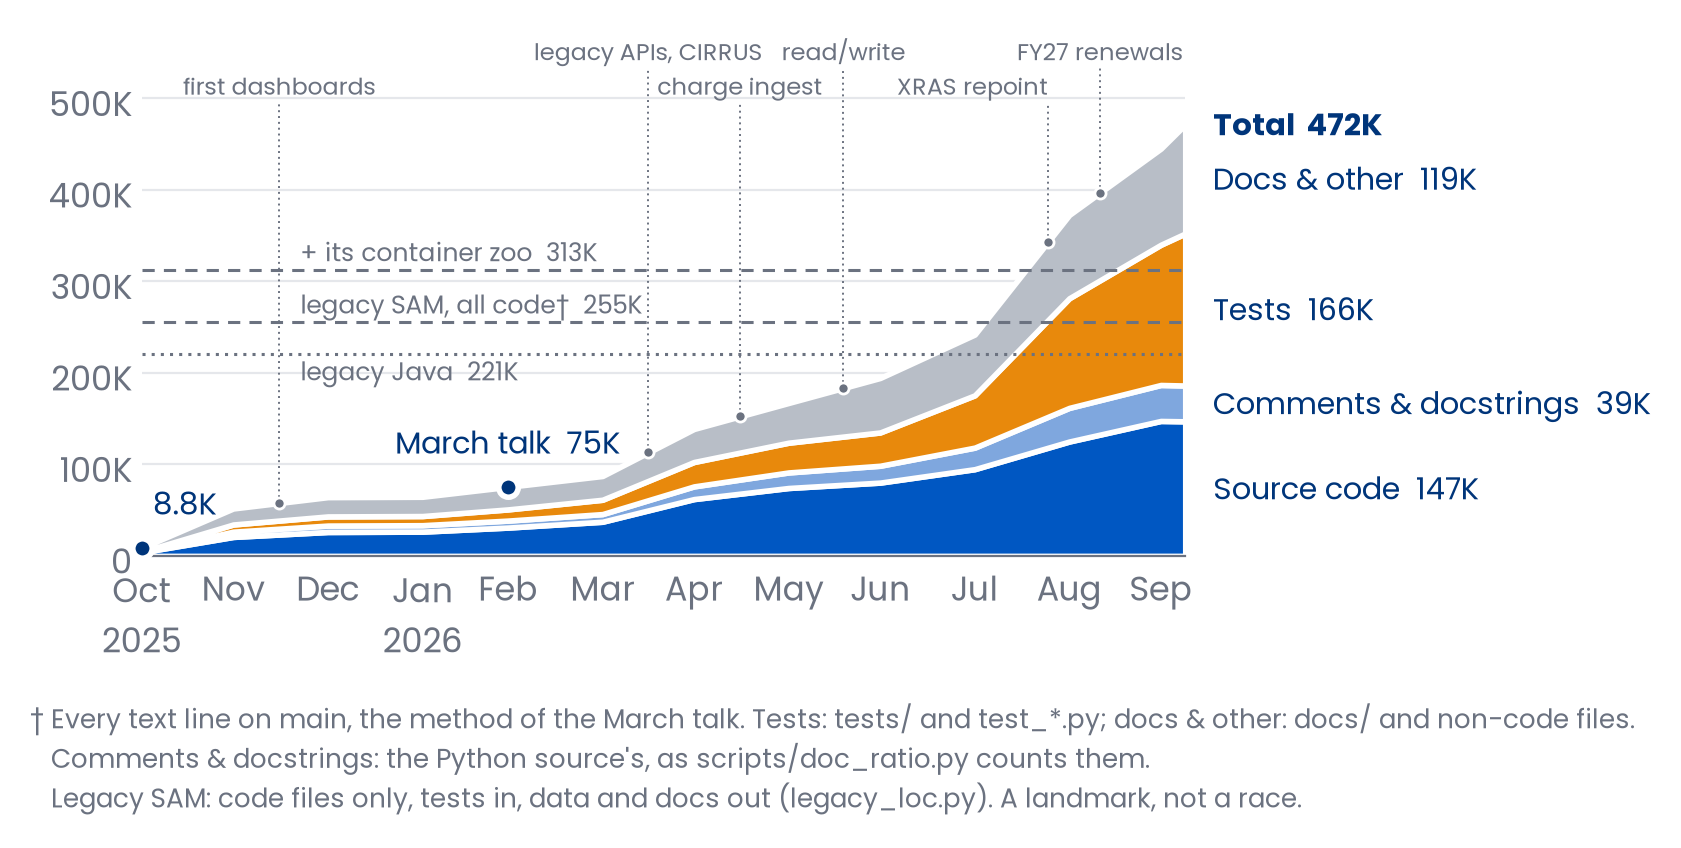
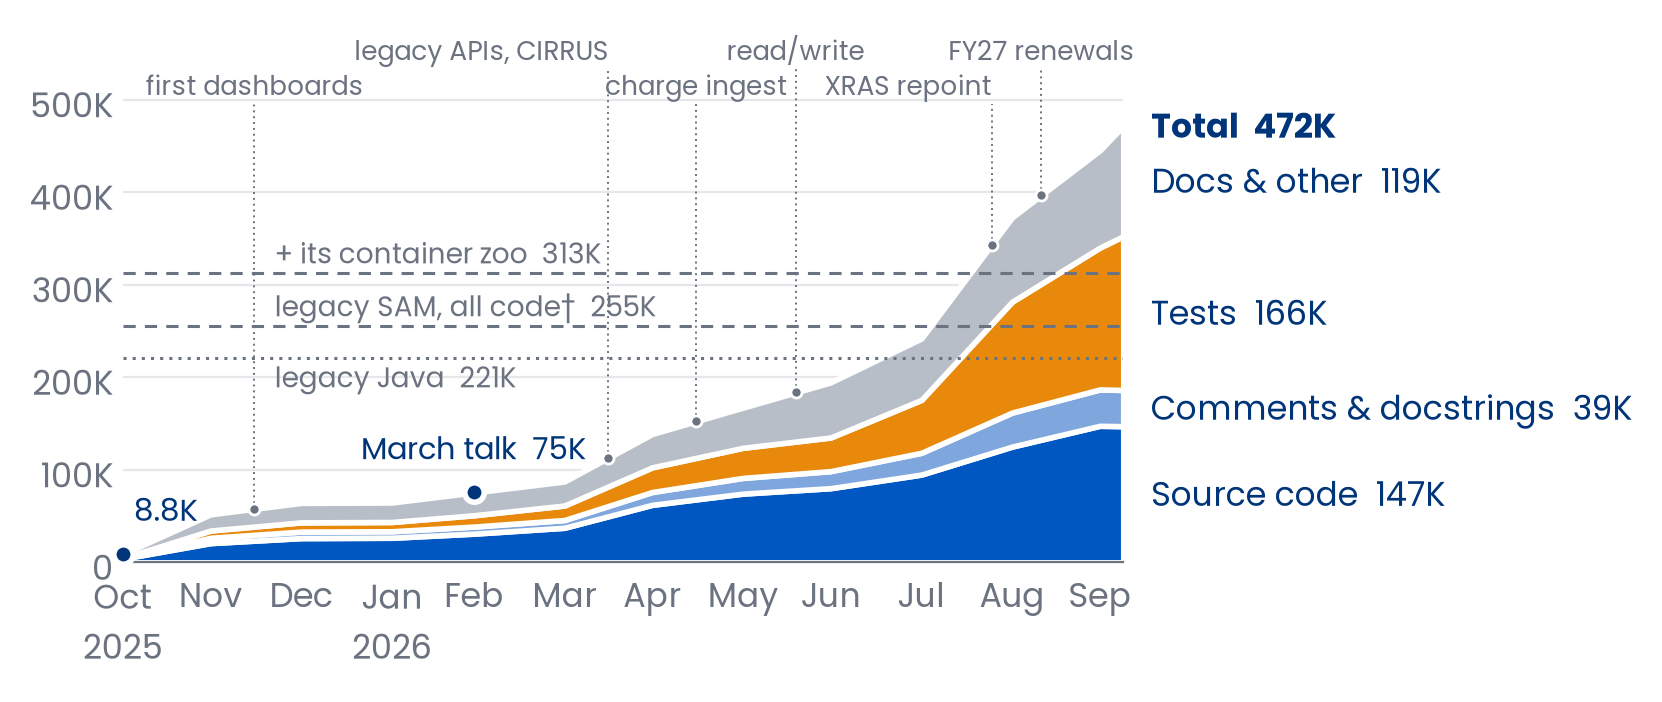
Decks: the progression chart fills its slide; footnotes all italic
- plot_progression.py: the method note leaves the image for the slide's †
  footnote (text in a picture can't scale with the slide, and it made the
  image too tall to fill the width); the figure is ~2.35:1, the labels a
  size larger, and "legacy APIs, CIRRUS" right-aligned to clear read/write.
- "The Progression": {.vcenter} (not .center, whose hcenter shrink-wrapped
  the image), height 64%, an italic † footnote; the details are in the notes.
- Footnote sweep: Part 4's "‡ The REST route ..." was the one roman footnote
  left; every † / ‡ paragraph is now `*...*`.

### Test Results

`make qa DECKS="1-overview 4-systems"`: 20 and 32 slides in every format, no
failures (the PDF footer overflow at 72% is gone at 64%).

Claude-Session: https://claude.ai/code/session_0167ztGBCpdbfA3Pk3vVLE31

Changed region(s): [[0.0, 0.1197, 0.9819, 0.9573], [0.0, 0.0299, 0.7058, 0.1795], [0.0, 0.2094, 0.0921, 0.359]]

diff --git a/docs/presentations/samuel/plot_progression.py b/docs/presentations/samuel/plot_progression.py
@@ -35,7 +35,7 @@ total = [int(r["lines"]) for r in rows]
 assert all(sum(v) == t for *v, t in zip(*series, total)), "bands must sum to the total"
 
 plt.rcParams.update({"font.family": "Poppins", "font.size": 13})
-fig, ax = plt.subplots(figsize=(10, 4.2), dpi=200)
+fig, ax = plt.subplots(figsize=(10, 3.6), dpi=200)     # ~2.35:1, the slide body under a title
 ax.stackplot(x, *series, colors=[c for _, _, c in BANDS],
              edgecolor="white", linewidth=2)          # 2px surface seam between bands
 
@@ -50,17 +50,17 @@ for key, label, dash, va in (("java", "legacy Java", (1, 2), "top"),
                              ("legacy_with_zoo", "+ its container zoo", (4, 3), "bottom")):
     ax.axhline(LEGACY[key], color=MUTED, linewidth=1.1, linestyle=(0, dash))
     ax.text(date(2025, 12, 22), LEGACY[key], f"{label}  {k(LEGACY[key])}", color=MUTED,
-            fontsize=9, va=va, ha="left")
+            fontsize=10, va=va, ha="left")
 
 # Direct labels: each band at its vertical middle on the last point.
 last, base = len(x) - 1, 0
 for (_, label, _), vals in zip(BANDS, series):
     mid = base + vals[last] / 2
     ax.annotate(f"{label}  {k(vals[last])}", (x[last], mid), xytext=(10, 0),
-                textcoords="offset points", va="center", ha="left", color=INK, fontsize=11)
+                textcoords="offset points", va="center", ha="left", color=INK, fontsize=12)
     base += vals[last]
 ax.annotate(f"Total  {k(total[last])}", (x[last], total[last]), xytext=(10, 0),
-            textcoords="offset points", va="center", ha="left", color=INK, fontsize=11,
+            textcoords="offset points", va="center", ha="left", color=INK, fontsize=12,
             fontweight="bold")
 
 def mark(i, label, dx, dy, ha="center"):
@@ -77,7 +77,7 @@ mark(talk, f"March talk  {k(total[talk])}", 0, 12)
 # top, each dotted down to its point on the total. Two heights, set per label (row 0 high, 1 low)
 # with its alignment, so no dotted line runs through a neighbor's label.
 MILESTONES = [(date(2025, 12, 15), "first dashboards", 1, "center"),
-              (date(2026, 4, 15), "legacy APIs, CIRRUS", 0, "center"),
+              (date(2026, 4, 15), "legacy APIs, CIRRUS", 0, "right"),
               (date(2026, 5, 15), "charge ingest", 1, "center"),
               (date(2026, 6, 18), "read/write", 0, "center"),
               (date(2026, 8, 24), "XRAS repoint", 1, "right"),
@@ -89,7 +89,7 @@ for d, label, row, ha in MILESTONES:
     ax.plot([d, d], [y, top], color=MUTED, linewidth=0.7, linestyle=(0, (1, 2)), zorder=2)
     ax.plot(d, y, "o", color=MUTED, markersize=4, markeredgecolor="white",
             markeredgewidth=1, zorder=3)
-    ax.text(d, top, label, ha=ha, va="bottom", color=MUTED, fontsize=8.5)
+    ax.text(d, top, label, ha=ha, va="bottom", color=MUTED, fontsize=9.5)
 
 ax.yaxis.set_major_formatter(FuncFormatter(lambda v, _: f"{v/1e3:,.0f}K" if v else "0"))
 ax.set_ylim(0, max(total) * 1.22)
@@ -106,12 +106,8 @@ ax.set_xticks(x, ["" if i and (d - x[i - 1]).days < 20 else
                   f"{d:%b}\n{d:%Y}" if i == 0 or d.month == 1 else f"{d:%b}"
                   for i, d in enumerate(x)])
 
-FOOTNOTE = ("† Every text line on main, the method of the March talk. Tests: tests/ and test_*.py; "
-            "docs & other: docs/ and non-code files.\n"
-            "   Comments & docstrings: the Python source's, as scripts/doc_ratio.py counts them.\n"
-            "   Legacy SAM: code files only, tests in, data and docs out (legacy_loc.py). A landmark, "
-            "not a race.")
-fig.tight_layout(rect=(0, 0.15, 0.84, 1))            # right margin holds the direct labels
-fig.text(0.01, 0.015, FOOTNOTE, color=MUTED, fontsize=9.5, ha="left", va="bottom")
+# The method note is the slide's † footnote (_1-overview.qmd), not part of the image: text in a
+# picture can't be scaled with the slide, and it made the image too tall to fill the width.
+fig.tight_layout(rect=(0, 0, 0.84, 1))               # right margin holds the direct labels
 fig.savefig(HERE / "images/loc_progression.png", transparent=False, facecolor="white",
             bbox_inches="tight", pad_inches=0.15)   # no lopsided right margin
